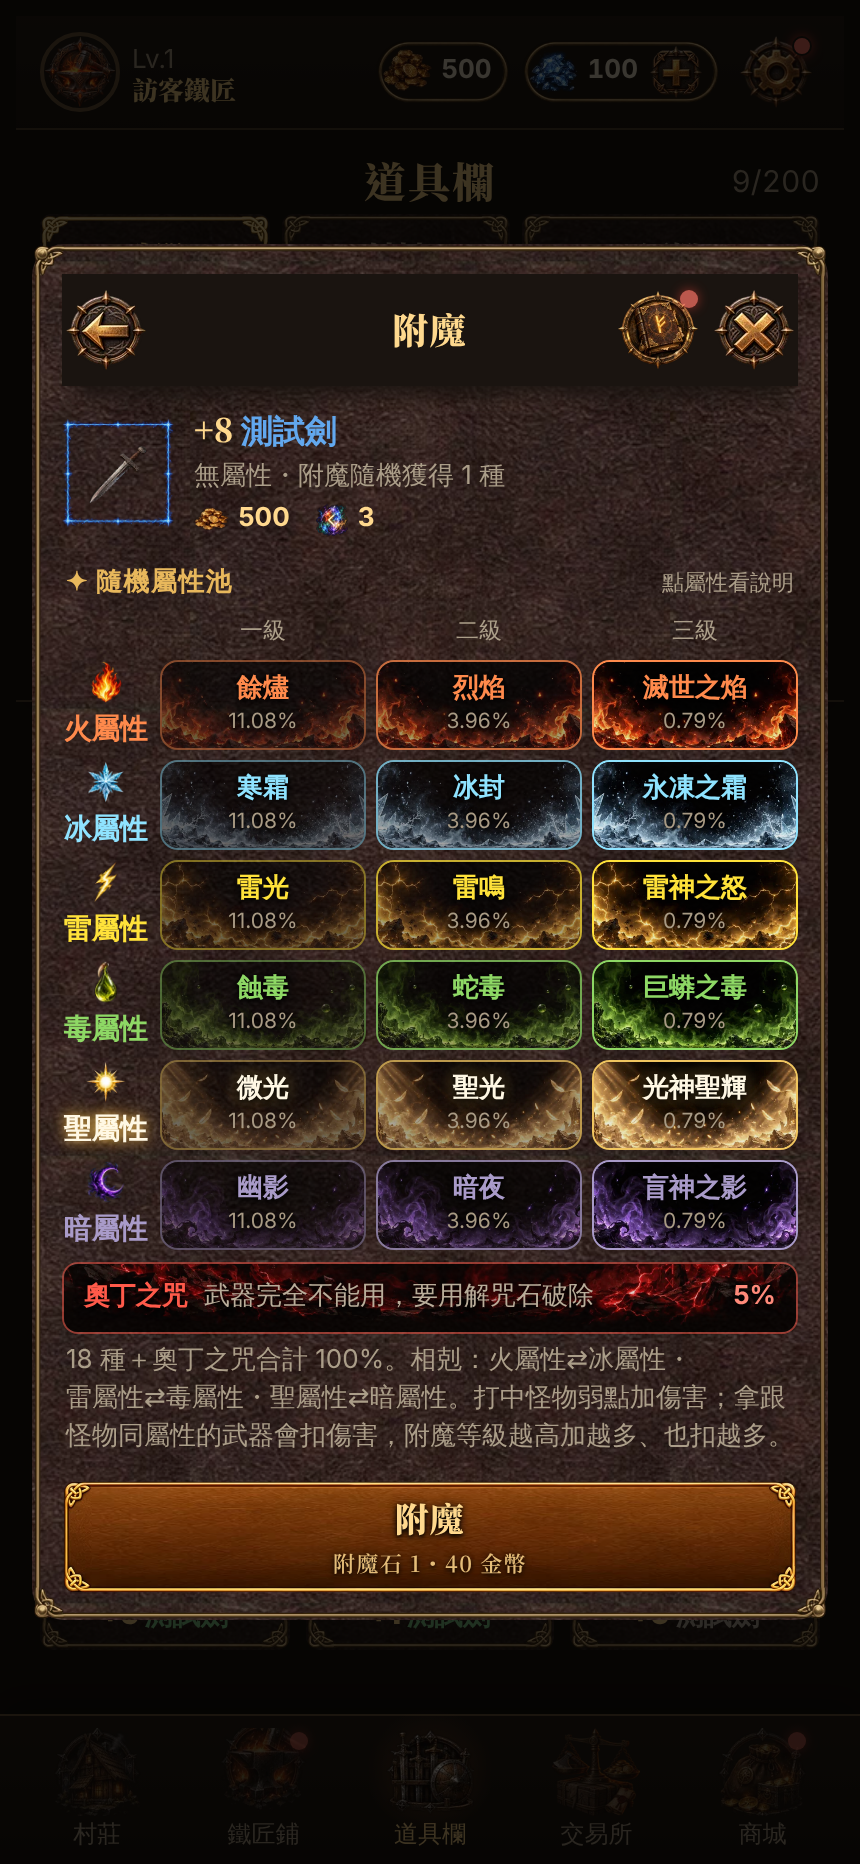
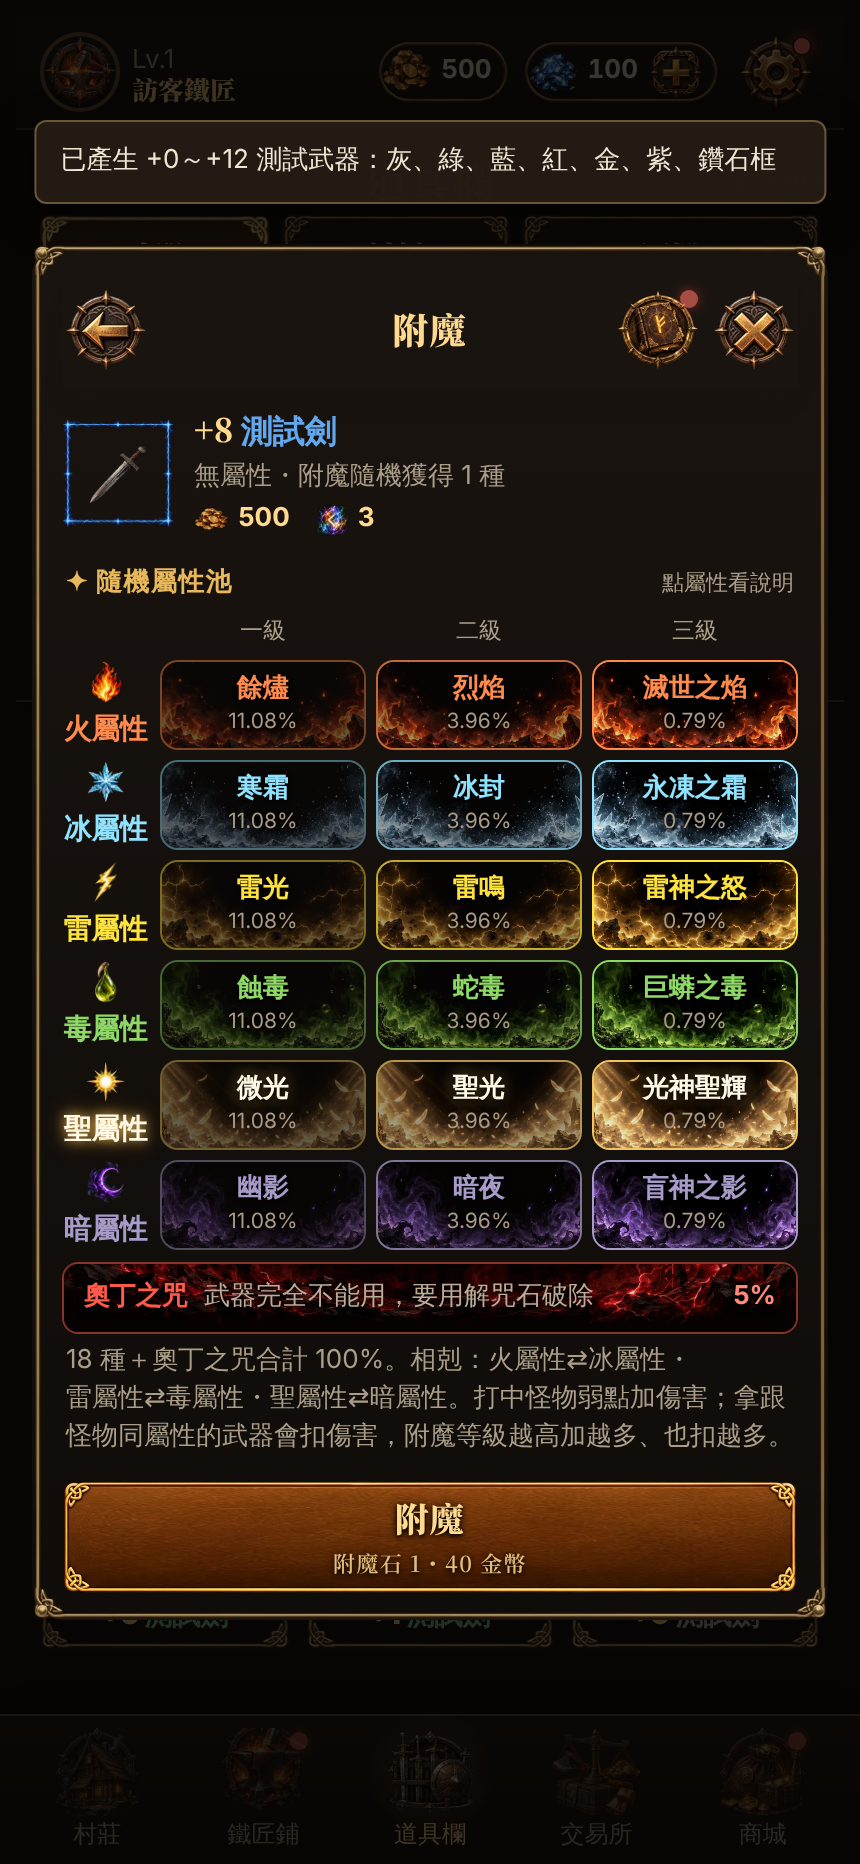
v4.91 拿掉皮革底紋（保留原本深色底）、強化石碑和數值格改用無雕花細線框、細線框壓暗
Claude-Session: https://claude.ai/code/session_01SeUeF3GZXFJm3dfT74oQ9s

Changed region(s): [[0.0302, 0.0622, 0.9674, 0.8712], [0.786, 0.4356, 0.8163, 0.4667]]

diff --git a/index.html b/index.html
@@ -2006,10 +2006,10 @@ body.dpv .hero .dp-firelit{position:absolute;inset:0;z-index:1;pointer-events:no
 /* v4.91 Mochi：程式畫的框線看起來廉價 → 沒有皮膚槽位的元件也換成 AI 細線框（素材 art/ui/ui491_*，皮膚槽位設定在 skin.js）
    框：fr 暗銅／fr_on 金（選中）／fr_red 紅（危險）／fr_off 灰（鎖住、停用），角落雕花一樣大（15px）；fl* 是沒有雕花的細線框，給小元件用；cap* 是膠囊 */
 .sheet,.modal-card,.info-body{scrollbar-width:none}.sheet::-webkit-scrollbar,.modal-card::-webkit-scrollbar,.info-body::-webkit-scrollbar{display:none}   /* 小卡內容稍微超出時不顯示旁邊的捲動條（還是可以滑） */
-.wt:not(#_),.wt:is(.l0b,.l1b,.l2b,.l3b,.l4b,.l5b,.l6b,.posted):not(#_),.sg-day:not(#_),.matbox:not(#_),.ev-st:not(#_),.wp-g>*:not(#_){border-color:transparent;border-image:url(art/ui/ui491_fr.webp) 50 / 15px stretch;background:linear-gradient(rgba(0,0,0,.38),rgba(0,0,0,.38)),url(art/ui/ui491_tex.webp) center/240px;box-shadow:none}
+.wt:not(#_),.wt:is(.l0b,.l1b,.l2b,.l3b,.l4b,.l5b,.l6b,.posted):not(#_),.sg-day:not(#_),.matbox:not(#_),.wp-g>*:not(#_){border-color:transparent;border-image:url(art/ui/ui491_fr.webp) 50 / 15px stretch;box-shadow:none}
 .wt.on:not(#_),.sg-day.today:not(#_){outline:none;border-image-source:url(art/ui/ui491_fr_on.webp)}
-.ev-st.risk:not(#_),.enh-stage.danger:not(#_){border-color:transparent;border-image:url(art/ui/ui491_fr_red.webp) 50 / 15px stretch}
-.enh-stage:not(.danger):not(#_){border-color:transparent;border-image:url(art/ui/ui491_fr.webp) 50 / 15px stretch}
+.ev-st:not(#_),.enh-stage:not(#_){border-color:transparent;border-image:url(art/ui/ui491_fl.webp) 24 / 8px stretch;box-shadow:none}   /* 石碑和上面的數值格不加雕花，避免框裡套框太雜 */
+.ev-st.risk:not(#_),.enh-stage.danger:not(#_){border-image-source:url(art/ui/ui491_fl_red.webp)}
 .ev-warn.risk:not(#_){border-color:transparent;border-image:url(art/ui/ui491_fl_red.webp) 24 / 8px stretch}
 .enh-more:not(#_),.cbar-in:not(#_){border-color:transparent;border-image:url(art/ui/ui491_fl.webp) 24 / 8px stretch;box-shadow:none}
 .vlocked:not(#_){border-style:solid;border-color:transparent;border-image:url(art/ui/ui491_fr_off.webp) 50 / 15px stretch}
@@ -2052,7 +2052,7 @@ body.dpv .hero .dp-firelit{position:absolute;inset:0;z-index:1;pointer-events:no
  * ===================================================================== */
 const UI_SKIN={
   // v4.91 Mochi：程式畫的框和按鈕看起來很廉價 → 換成 AI 細線框（拼圖：/mnt/project-files/ui-skin/v4.91/整合版_*）
-  //   規則：雕花只在四個角，所有元件的角落雕花都一樣大（圖框繪製寬度 ÷ 切片 ≈ 0.3）；框中間是空的，底紋另外用可重複的 ui491_tex
+  //   規則：雕花只在四個角，所有元件的角落雕花都一樣大（圖框繪製寬度 ÷ 切片 ≈ 0.3）；框中間是空的，保留元件原本的深色底（Mochi：皮革底紋很醜，不用）
   'btn-primary':{src:'art/ui/ui491_b_pri.webp',slice:[52,52,52,52],width:[15,15,15,15],css:'text-shadow:0 1px 2px #000,0 0 4px rgba(0,0,0,.85);padding-left:16px;padding-right:16px'},  'btn-primary:pressed':{src:'art/ui/ui491_b_pri_p.webp'},  'btn-primary:disabled':{src:'art/ui/ui491_b_pri_d.webp',css:'filter:none;opacity:1;color:#bdb3a2;text-shadow:0 1px 2px #000,0 0 4px rgba(0,0,0,.85)'},
   'btn-primary-big':{src:'art/ui/ui491_b_pri.webp',slice:[52,52,52,52],width:[15,15,15,15],css:'text-shadow:0 1px 2px #000,0 0 4px rgba(0,0,0,.85);padding-left:16px;padding-right:16px'},  'btn-primary-big:pressed':{src:'art/ui/ui491_b_pri_p.webp'},  'btn-primary-big:disabled':{src:'art/ui/ui491_b_pri_d.webp',css:'filter:none;opacity:1;color:#bdb3a2;text-shadow:0 1px 2px #000,0 0 4px rgba(0,0,0,.85)'},
   'btn-primary-compact':{src:'art/ui/ui491_b_pri.webp',slice:[52,52,52,52],width:[15,15,15,15],css:'text-shadow:0 1px 2px #000,0 0 4px rgba(0,0,0,.85);padding-left:16px;padding-right:16px'},  'btn-primary-compact:pressed':{src:'art/ui/ui491_b_pri_p.webp'},  'btn-primary-compact:disabled':{src:'art/ui/ui491_b_pri_d.webp',css:'filter:none;opacity:1;color:#bdb3a2;text-shadow:0 1px 2px #000,0 0 4px rgba(0,0,0,.85)'},
@@ -2063,23 +2063,23 @@ const UI_SKIN={
   'btn-danger-big':{src:'art/ui/ui491_b_dan.webp',slice:[52,52,52,52],width:[15,15,15,15],css:'text-shadow:0 1px 2px #000,0 0 4px rgba(0,0,0,.85);padding-left:16px;padding-right:16px'},  'btn-danger-big:pressed':{src:'art/ui/ui491_b_dan_p.webp'},  'btn-danger-big:disabled':{src:'art/ui/ui491_b_dan_d.webp',css:'filter:none;opacity:1;color:#bdb3a2;text-shadow:0 1px 2px #000,0 0 4px rgba(0,0,0,.85)'},
   'btn-danger-compact':{src:'art/ui/ui491_b_dan.webp',slice:[52,52,52,52],width:[15,15,15,15],css:'text-shadow:0 1px 2px #000,0 0 4px rgba(0,0,0,.85);padding-left:16px;padding-right:16px'},  'btn-danger-compact:pressed':{src:'art/ui/ui491_b_dan_p.webp'},  'btn-danger-compact:disabled':{src:'art/ui/ui491_b_dan_d.webp',css:'filter:none;opacity:1;color:#bdb3a2;text-shadow:0 1px 2px #000,0 0 4px rgba(0,0,0,.85)'},
   'btn-chip':{src:'art/ui/ui491_cap.webp',slice:[53,53,53,53],width:[30,30,30,30],fill:false,css:'background:#15110d'},  'btn-chip:on':{src:'art/ui/ui491_cap_on.webp',css:'color:var(--gold-hi)'},
-  'btn-toggle':{src:'art/ui/ui491_fr.webp',slice:[50,50,50,50],width:[15,15,15,15],fill:false,css:'background:linear-gradient(rgba(0,0,0,.38),rgba(0,0,0,.38)),url(art/ui/ui491_tex.webp) center/240px'},  'btn-toggle:on':{src:'art/ui/ui491_fr_on.webp'},
+  'btn-toggle':{src:'art/ui/ui491_fr.webp',slice:[50,50,50,50],width:[15,15,15,15],fill:false,bg:true},  'btn-toggle:on':{src:'art/ui/ui491_fr_on.webp'},
   'btn-accent':null,            'btn-accent:pressed':null,
   'btn-icon':null,              'btn-icon:pressed':null,
-  'tab':{src:'art/ui/ui491_fr.webp',slice:[50,50,50,50],width:[15,15,15,15],fill:false,css:'background:linear-gradient(rgba(0,0,0,.38),rgba(0,0,0,.38)),url(art/ui/ui491_tex.webp) center/240px'},  'tab:on':{src:'art/ui/ui491_fr_on.webp'},
+  'tab':{src:'art/ui/ui491_fr.webp',slice:[50,50,50,50],width:[15,15,15,15],fill:false,bg:true},  'tab:on':{src:'art/ui/ui491_fr_on.webp'},
   // 面板與卡片
-  'panel':{src:'art/ui/ui491_fr.webp',slice:[50,50,50,50],width:[15,15,15,15],fill:false,css:'background:url(art/ui/ui491_tex.webp) center/240px'},
+  'panel':{src:'art/ui/ui491_fr.webp',slice:[50,50,50,50],width:[15,15,15,15],fill:false,bg:true},
   'title':null,
-  'card':{src:'art/ui/ui491_fr.webp',slice:[50,50,50,50],width:[15,15,15,15],fill:false,css:'background:linear-gradient(rgba(0,0,0,.38),rgba(0,0,0,.38)),url(art/ui/ui491_tex.webp) center/240px'},  'card:on':{src:'art/ui/ui491_fr_on.webp'},
-  'card-compact':{src:'art/ui/ui491_fr.webp',slice:[50,50,50,50],width:[15,15,15,15],fill:false,css:'background:linear-gradient(rgba(0,0,0,.38),rgba(0,0,0,.38)),url(art/ui/ui491_tex.webp) center/240px'},  'card-compact:on':{src:'art/ui/ui491_fr_on.webp'},
+  'card':{src:'art/ui/ui491_fr.webp',slice:[50,50,50,50],width:[15,15,15,15],fill:false,bg:true},  'card:on':{src:'art/ui/ui491_fr_on.webp'},
+  'card-compact':{src:'art/ui/ui491_fr.webp',slice:[50,50,50,50],width:[15,15,15,15],fill:false,bg:true},  'card-compact:on':{src:'art/ui/ui491_fr_on.webp'},
   'card-feature':null,
-  'card-option':{src:'art/ui/ui491_fr.webp',slice:[50,50,50,50],width:[15,15,15,15],fill:false,css:'background:linear-gradient(rgba(0,0,0,.38),rgba(0,0,0,.38)),url(art/ui/ui491_tex.webp) center/240px'},  'card-option:on':{src:'art/ui/ui491_fr_on.webp'},
-  'card-row':{src:'art/ui/ui491_fr.webp',slice:[50,50,50,50],width:[15,15,15,15],fill:false,css:'background:linear-gradient(rgba(0,0,0,.38),rgba(0,0,0,.38)),url(art/ui/ui491_tex.webp) center/240px'},
+  'card-option':{src:'art/ui/ui491_fr.webp',slice:[50,50,50,50],width:[15,15,15,15],fill:false,bg:true},  'card-option:on':{src:'art/ui/ui491_fr_on.webp'},
+  'card-row':{src:'art/ui/ui491_fr.webp',slice:[50,50,50,50],width:[15,15,15,15],fill:false,bg:true},
   'badge':null,
   'prog':null,                  'prog-fill':null,
   // 視窗與常駐列
-  'sheet':{src:'art/ui/ui491_fr_modal.webp',slice:[50,50,50,50],width:[17,17,17,17],fill:false,css:'background:url(art/ui/ui491_tex.webp) center/240px'},
-  'modal':{src:'art/ui/ui491_fr_modal.webp',slice:[50,50,50,50],width:[17,17,17,17],fill:false,css:'background:url(art/ui/ui491_tex.webp) center/240px'},
+  'sheet':{src:'art/ui/ui491_fr_modal.webp',slice:[50,50,50,50],width:[17,17,17,17],fill:false,bg:true},
+  'modal':{src:'art/ui/ui491_fr_modal.webp',slice:[50,50,50,50],width:[17,17,17,17],fill:false,bg:true},
   'toast':null,
   'topbar':null,
   'navbar':null,
@@ -4091,7 +4091,7 @@ function skinCss(){if(typeof UI_SKIN==='undefined')return'';const out=[];
     // width：只設定圖框的繪製寬度（border-image-width），不改元件原本的邊框寬度，所以版面尺寸完全不變。
     //   上下寬度相加 ≥ 元件高度時，瀏覽器會把四邊等比例縮小 → 只能橫向伸縮的素材（3-slice）用這個方式，四角不會變形。
     if(base.width){const sl=(base.slice||[24,24,24,24]).join(' '),iw=base.width.map(v=>typeof v==='number'?v+'px':v).join(' ');
-      out.push(`${sel}{border-color:transparent;border-image:url("${cfg.src}") ${sl}${base.fill===false?'':' fill'} / ${iw} / ${base.outset||0} ${base.repeat||'stretch'};background:none${ex}}`);
+      out.push(`${sel}{border-color:transparent;border-image:url("${cfg.src}") ${sl}${base.fill===false?'':' fill'} / ${iw} / ${base.outset||0} ${base.repeat||'stretch'}${base.bg?'':';background:none'}${ex}}`);   // v4.91 bg:true＝保留元件原本的底色（框中間是空的）
       // overlay：不能被拉伸的中央裝飾（例如導航列中間的鑽飾）另外疊一層，固定比例置中，不跟著元件寬度變形
       if(base.overlay){const ov=base.overlay;out.push(`${sel.split(',').map(x=>x+'::before').join(',')}{content:"";position:absolute;left:50%;top:0;height:100%;aspect-ratio:${ov.ratio};transform:translateX(-50%);background:url("${ov.src}") center/100% 100% no-repeat;pointer-events:none}`)}
       continue}

diff --git a/src/skin.js b/src/skin.js
@@ -21,7 +21,7 @@
  * ===================================================================== */
 const UI_SKIN={
   // v4.91 Mochi：程式畫的框和按鈕看起來很廉價 → 換成 AI 細線框（拼圖：/mnt/project-files/ui-skin/v4.91/整合版_*）
-  //   規則：雕花只在四個角，所有元件的角落雕花都一樣大（圖框繪製寬度 ÷ 切片 ≈ 0.3）；框中間是空的，底紋另外用可重複的 ui491_tex
+  //   規則：雕花只在四個角，所有元件的角落雕花都一樣大（圖框繪製寬度 ÷ 切片 ≈ 0.3）；框中間是空的，保留元件原本的深色底（Mochi：皮革底紋很醜，不用）
   'btn-primary':{src:'art/ui/ui491_b_pri.webp',slice:[52,52,52,52],width:[15,15,15,15],css:'text-shadow:0 1px 2px #000,0 0 4px rgba(0,0,0,.85);padding-left:16px;padding-right:16px'},  'btn-primary:pressed':{src:'art/ui/ui491_b_pri_p.webp'},  'btn-primary:disabled':{src:'art/ui/ui491_b_pri_d.webp',css:'filter:none;opacity:1;color:#bdb3a2;text-shadow:0 1px 2px #000,0 0 4px rgba(0,0,0,.85)'},
   'btn-primary-big':{src:'art/ui/ui491_b_pri.webp',slice:[52,52,52,52],width:[15,15,15,15],css:'text-shadow:0 1px 2px #000,0 0 4px rgba(0,0,0,.85);padding-left:16px;padding-right:16px'},  'btn-primary-big:pressed':{src:'art/ui/ui491_b_pri_p.webp'},  'btn-primary-big:disabled':{src:'art/ui/ui491_b_pri_d.webp',css:'filter:none;opacity:1;color:#bdb3a2;text-shadow:0 1px 2px #000,0 0 4px rgba(0,0,0,.85)'},
   'btn-primary-compact':{src:'art/ui/ui491_b_pri.webp',slice:[52,52,52,52],width:[15,15,15,15],css:'text-shadow:0 1px 2px #000,0 0 4px rgba(0,0,0,.85);padding-left:16px;padding-right:16px'},  'btn-primary-compact:pressed':{src:'art/ui/ui491_b_pri_p.webp'},  'btn-primary-compact:disabled':{src:'art/ui/ui491_b_pri_d.webp',css:'filter:none;opacity:1;color:#bdb3a2;text-shadow:0 1px 2px #000,0 0 4px rgba(0,0,0,.85)'},
@@ -32,23 +32,23 @@ const UI_SKIN={
   'btn-danger-big':{src:'art/ui/ui491_b_dan.webp',slice:[52,52,52,52],width:[15,15,15,15],css:'text-shadow:0 1px 2px #000,0 0 4px rgba(0,0,0,.85);padding-left:16px;padding-right:16px'},  'btn-danger-big:pressed':{src:'art/ui/ui491_b_dan_p.webp'},  'btn-danger-big:disabled':{src:'art/ui/ui491_b_dan_d.webp',css:'filter:none;opacity:1;color:#bdb3a2;text-shadow:0 1px 2px #000,0 0 4px rgba(0,0,0,.85)'},
   'btn-danger-compact':{src:'art/ui/ui491_b_dan.webp',slice:[52,52,52,52],width:[15,15,15,15],css:'text-shadow:0 1px 2px #000,0 0 4px rgba(0,0,0,.85);padding-left:16px;padding-right:16px'},  'btn-danger-compact:pressed':{src:'art/ui/ui491_b_dan_p.webp'},  'btn-danger-compact:disabled':{src:'art/ui/ui491_b_dan_d.webp',css:'filter:none;opacity:1;color:#bdb3a2;text-shadow:0 1px 2px #000,0 0 4px rgba(0,0,0,.85)'},
   'btn-chip':{src:'art/ui/ui491_cap.webp',slice:[53,53,53,53],width:[30,30,30,30],fill:false,css:'background:#15110d'},  'btn-chip:on':{src:'art/ui/ui491_cap_on.webp',css:'color:var(--gold-hi)'},
-  'btn-toggle':{src:'art/ui/ui491_fr.webp',slice:[50,50,50,50],width:[15,15,15,15],fill:false,css:'background:linear-gradient(rgba(0,0,0,.38),rgba(0,0,0,.38)),url(art/ui/ui491_tex.webp) center/240px'},  'btn-toggle:on':{src:'art/ui/ui491_fr_on.webp'},
+  'btn-toggle':{src:'art/ui/ui491_fr.webp',slice:[50,50,50,50],width:[15,15,15,15],fill:false,bg:true},  'btn-toggle:on':{src:'art/ui/ui491_fr_on.webp'},
   'btn-accent':null,            'btn-accent:pressed':null,
   'btn-icon':null,              'btn-icon:pressed':null,
-  'tab':{src:'art/ui/ui491_fr.webp',slice:[50,50,50,50],width:[15,15,15,15],fill:false,css:'background:linear-gradient(rgba(0,0,0,.38),rgba(0,0,0,.38)),url(art/ui/ui491_tex.webp) center/240px'},  'tab:on':{src:'art/ui/ui491_fr_on.webp'},
+  'tab':{src:'art/ui/ui491_fr.webp',slice:[50,50,50,50],width:[15,15,15,15],fill:false,bg:true},  'tab:on':{src:'art/ui/ui491_fr_on.webp'},
   // 面板與卡片
-  'panel':{src:'art/ui/ui491_fr.webp',slice:[50,50,50,50],width:[15,15,15,15],fill:false,css:'background:url(art/ui/ui491_tex.webp) center/240px'},
+  'panel':{src:'art/ui/ui491_fr.webp',slice:[50,50,50,50],width:[15,15,15,15],fill:false,bg:true},
   'title':null,
-  'card':{src:'art/ui/ui491_fr.webp',slice:[50,50,50,50],width:[15,15,15,15],fill:false,css:'background:linear-gradient(rgba(0,0,0,.38),rgba(0,0,0,.38)),url(art/ui/ui491_tex.webp) center/240px'},  'card:on':{src:'art/ui/ui491_fr_on.webp'},
-  'card-compact':{src:'art/ui/ui491_fr.webp',slice:[50,50,50,50],width:[15,15,15,15],fill:false,css:'background:linear-gradient(rgba(0,0,0,.38),rgba(0,0,0,.38)),url(art/ui/ui491_tex.webp) center/240px'},  'card-compact:on':{src:'art/ui/ui491_fr_on.webp'},
+  'card':{src:'art/ui/ui491_fr.webp',slice:[50,50,50,50],width:[15,15,15,15],fill:false,bg:true},  'card:on':{src:'art/ui/ui491_fr_on.webp'},
+  'card-compact':{src:'art/ui/ui491_fr.webp',slice:[50,50,50,50],width:[15,15,15,15],fill:false,bg:true},  'card-compact:on':{src:'art/ui/ui491_fr_on.webp'},
   'card-feature':null,
-  'card-option':{src:'art/ui/ui491_fr.webp',slice:[50,50,50,50],width:[15,15,15,15],fill:false,css:'background:linear-gradient(rgba(0,0,0,.38),rgba(0,0,0,.38)),url(art/ui/ui491_tex.webp) center/240px'},  'card-option:on':{src:'art/ui/ui491_fr_on.webp'},
-  'card-row':{src:'art/ui/ui491_fr.webp',slice:[50,50,50,50],width:[15,15,15,15],fill:false,css:'background:linear-gradient(rgba(0,0,0,.38),rgba(0,0,0,.38)),url(art/ui/ui491_tex.webp) center/240px'},
+  'card-option':{src:'art/ui/ui491_fr.webp',slice:[50,50,50,50],width:[15,15,15,15],fill:false,bg:true},  'card-option:on':{src:'art/ui/ui491_fr_on.webp'},
+  'card-row':{src:'art/ui/ui491_fr.webp',slice:[50,50,50,50],width:[15,15,15,15],fill:false,bg:true},
   'badge':null,
   'prog':null,                  'prog-fill':null,
   // 視窗與常駐列
-  'sheet':{src:'art/ui/ui491_fr_modal.webp',slice:[50,50,50,50],width:[17,17,17,17],fill:false,css:'background:url(art/ui/ui491_tex.webp) center/240px'},
-  'modal':{src:'art/ui/ui491_fr_modal.webp',slice:[50,50,50,50],width:[17,17,17,17],fill:false,css:'background:url(art/ui/ui491_tex.webp) center/240px'},
+  'sheet':{src:'art/ui/ui491_fr_modal.webp',slice:[50,50,50,50],width:[17,17,17,17],fill:false,bg:true},
+  'modal':{src:'art/ui/ui491_fr_modal.webp',slice:[50,50,50,50],width:[17,17,17,17],fill:false,bg:true},
   'toast':null,
   'topbar':null,
   'navbar':null,

diff --git a/src/style.css b/src/style.css
@@ -1990,10 +1990,10 @@ body.dpv .hero .dp-firelit{position:absolute;inset:0;z-index:1;pointer-events:no
 /* v4.91 Mochi：程式畫的框線看起來廉價 → 沒有皮膚槽位的元件也換成 AI 細線框（素材 art/ui/ui491_*，皮膚槽位設定在 skin.js）
    框：fr 暗銅／fr_on 金（選中）／fr_red 紅（危險）／fr_off 灰（鎖住、停用），角落雕花一樣大（15px）；fl* 是沒有雕花的細線框，給小元件用；cap* 是膠囊 */
 .sheet,.modal-card,.info-body{scrollbar-width:none}.sheet::-webkit-scrollbar,.modal-card::-webkit-scrollbar,.info-body::-webkit-scrollbar{display:none}   /* 小卡內容稍微超出時不顯示旁邊的捲動條（還是可以滑） */
-.wt:not(#_),.wt:is(.l0b,.l1b,.l2b,.l3b,.l4b,.l5b,.l6b,.posted):not(#_),.sg-day:not(#_),.matbox:not(#_),.ev-st:not(#_),.wp-g>*:not(#_){border-color:transparent;border-image:url(art/ui/ui491_fr.webp) 50 / 15px stretch;background:linear-gradient(rgba(0,0,0,.38),rgba(0,0,0,.38)),url(art/ui/ui491_tex.webp) center/240px;box-shadow:none}
+.wt:not(#_),.wt:is(.l0b,.l1b,.l2b,.l3b,.l4b,.l5b,.l6b,.posted):not(#_),.sg-day:not(#_),.matbox:not(#_),.wp-g>*:not(#_){border-color:transparent;border-image:url(art/ui/ui491_fr.webp) 50 / 15px stretch;box-shadow:none}
 .wt.on:not(#_),.sg-day.today:not(#_){outline:none;border-image-source:url(art/ui/ui491_fr_on.webp)}
-.ev-st.risk:not(#_),.enh-stage.danger:not(#_){border-color:transparent;border-image:url(art/ui/ui491_fr_red.webp) 50 / 15px stretch}
-.enh-stage:not(.danger):not(#_){border-color:transparent;border-image:url(art/ui/ui491_fr.webp) 50 / 15px stretch}
+.ev-st:not(#_),.enh-stage:not(#_){border-color:transparent;border-image:url(art/ui/ui491_fl.webp) 24 / 8px stretch;box-shadow:none}   /* 石碑和上面的數值格不加雕花，避免框裡套框太雜 */
+.ev-st.risk:not(#_),.enh-stage.danger:not(#_){border-image-source:url(art/ui/ui491_fl_red.webp)}
 .ev-warn.risk:not(#_){border-color:transparent;border-image:url(art/ui/ui491_fl_red.webp) 24 / 8px stretch}
 .enh-more:not(#_),.cbar-in:not(#_){border-color:transparent;border-image:url(art/ui/ui491_fl.webp) 24 / 8px stretch;box-shadow:none}
 .vlocked:not(#_){border-style:solid;border-color:transparent;border-image:url(art/ui/ui491_fr_off.webp) 50 / 15px stretch}

diff --git a/src/game.js b/src/game.js
@@ -1898,7 +1898,7 @@ function skinCss(){if(typeof UI_SKIN==='undefined')return'';const out=[];
     // width：只設定圖框的繪製寬度（border-image-width），不改元件原本的邊框寬度，所以版面尺寸完全不變。
     //   上下寬度相加 ≥ 元件高度時，瀏覽器會把四邊等比例縮小 → 只能橫向伸縮的素材（3-slice）用這個方式，四角不會變形。
     if(base.width){const sl=(base.slice||[24,24,24,24]).join(' '),iw=base.width.map(v=>typeof v==='number'?v+'px':v).join(' ');
-      out.push(`${sel}{border-color:transparent;border-image:url("${cfg.src}") ${sl}${base.fill===false?'':' fill'} / ${iw} / ${base.outset||0} ${base.repeat||'stretch'};background:none${ex}}`);
+      out.push(`${sel}{border-color:transparent;border-image:url("${cfg.src}") ${sl}${base.fill===false?'':' fill'} / ${iw} / ${base.outset||0} ${base.repeat||'stretch'}${base.bg?'':';background:none'}${ex}}`);   // v4.91 bg:true＝保留元件原本的底色（框中間是空的）
       // overlay：不能被拉伸的中央裝飾（例如導航列中間的鑽飾）另外疊一層，固定比例置中，不跟著元件寬度變形
       if(base.overlay){const ov=base.overlay;out.push(`${sel.split(',').map(x=>x+'::before').join(',')}{content:"";position:absolute;left:50%;top:0;height:100%;aspect-ratio:${ov.ratio};transform:translateX(-50%);background:url("${ov.src}") center/100% 100% no-repeat;pointer-events:none}`)}
       continue}
